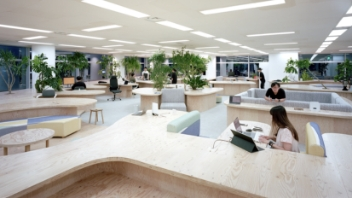
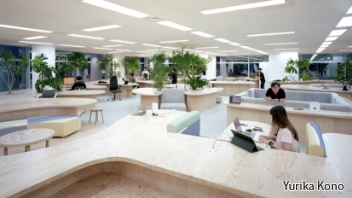
LP写真差し替え

Changed region(s): [[0.7812, 0.9091, 1.0, 0.9697]]

diff --git a/style.css b/style.css
@@ -3,7 +3,7 @@
 Theme Name: エクレクト(GitHub)
 Theme URI: 
 Description: 
-Version: 1.0.6
+Version: 1.0.7
 Author: 
 Author URI: 
 Tags: 
